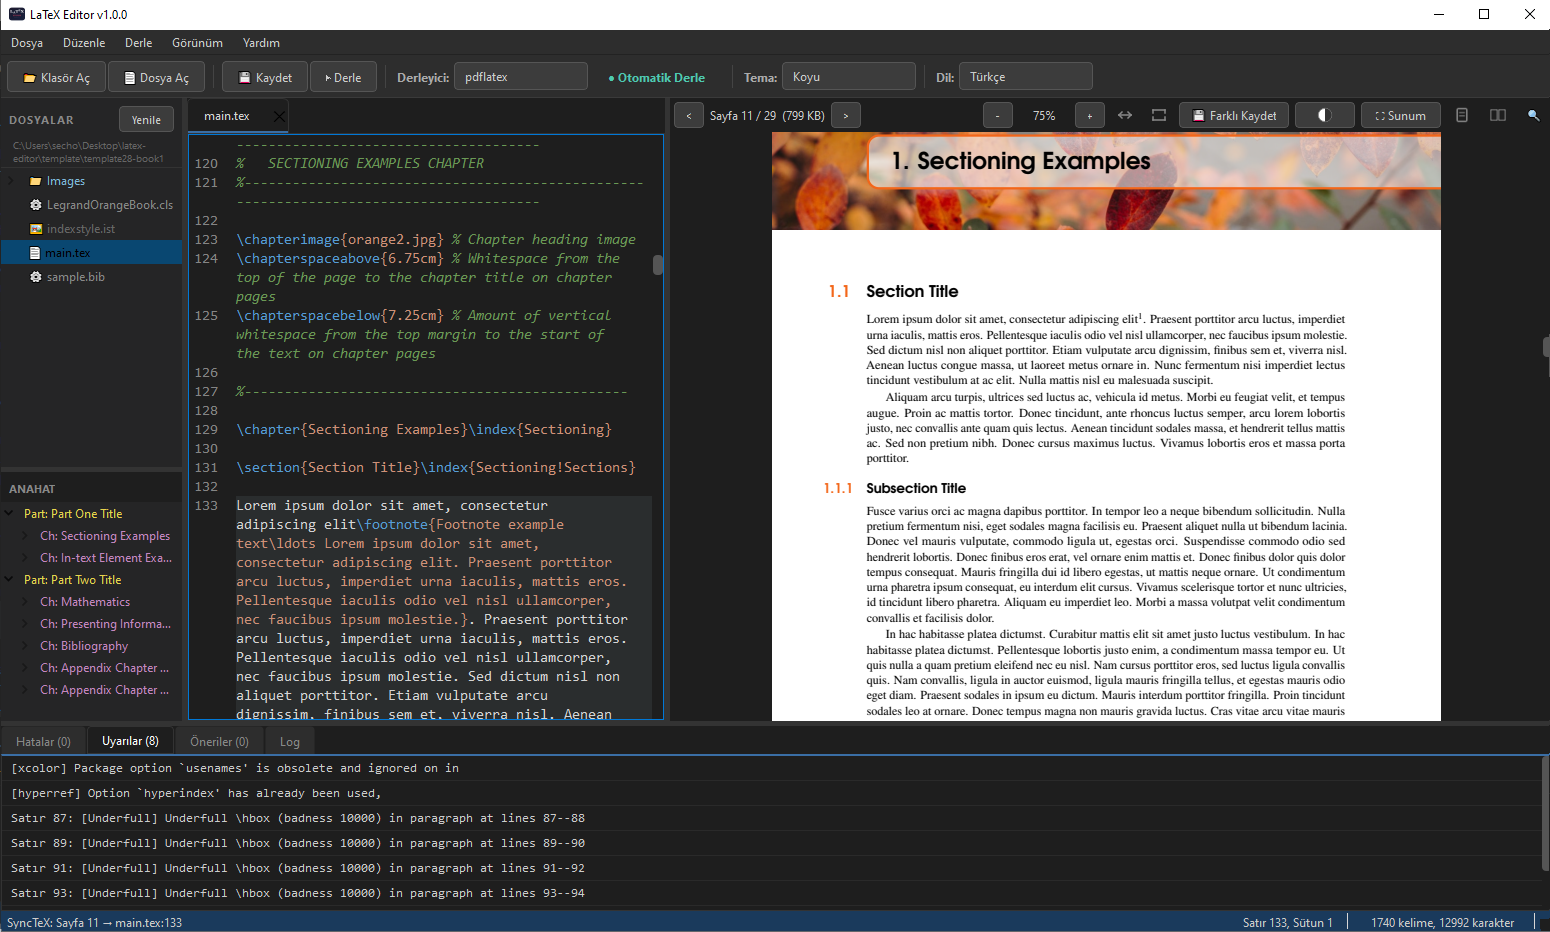
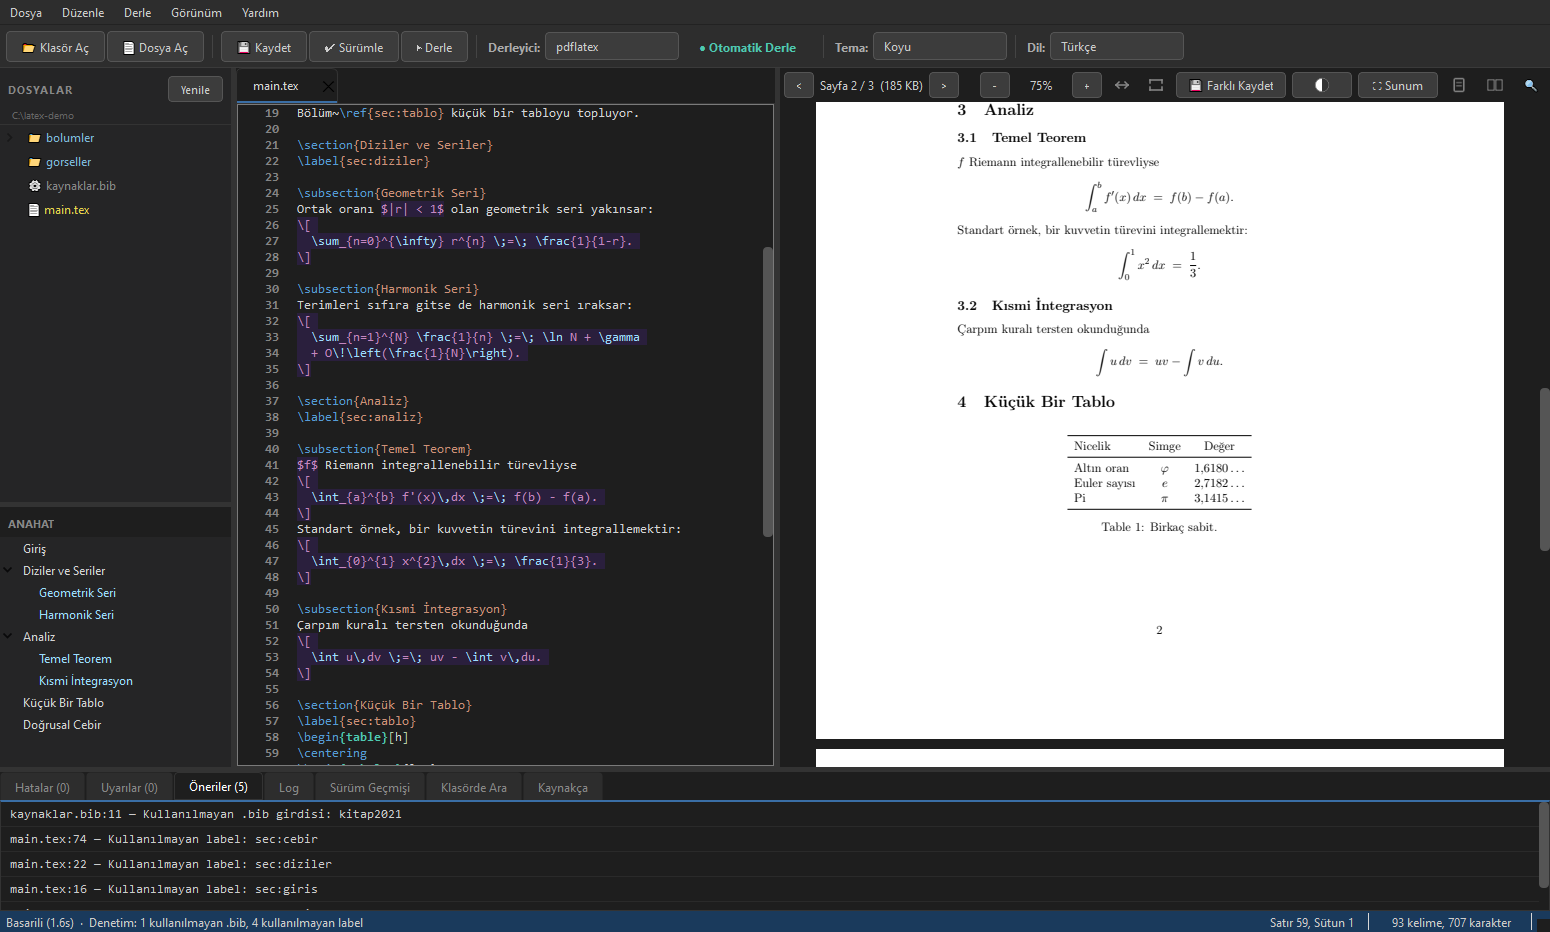
docs: tanitim goruntuleri yenilendi, uc yeni hareketli gosterim
Eski iki goruntude kisisel bilgi vardi: dosya agacinda
C:\Users\<kullanici>\... yolu okunuyordu ve GIF'te sekme basliklarinda
gercek belge adlari (cover-letter-ipm.tex, manuscript.tex) goruunuyordu.
Ikisi de notr bir demo projeden (C:\latex-demo, uydurma icerik) yeniden
alindi.

Uc yeni gosterim eklendi, hepsi ayni demo projeden:
  ss2-klasorde-ara.gif   Ctrl+Shift+F, uc dosyada 10 sonuc, birine tiklama
  ss3-kaynakca.gif       kaynakca tablosu, suzgec 6->2, DOI ile ekleme 6->7
  ss4-otomatik-derleme.gif  cumleyi yaz, kaydet, PDF kendiliginden yenilensin

Kayitlar uygulamanin KENDI yollarindan suruldu (gercek SyncTeX, gercek
derleme, gercek DOI istegi); fare imleci karelere cizildi cunku
QWidget.grab() onu yakalamiyor ve imlecsiz kayitta isler kendiliginden
oluyormus gibi duruyordu.

Boyut: kareler ayri ayri renk indirgemeye birakilinca dosya 5-6 kat
sisiyordu (olculdu: 1305 KB -> 118 KB). Ortak palet kullanildi, gozle fark
yok (%0.006 piksel). Bes goruntu toplam 1.2 MB; eskisi tek basina 1.3 MB'di.

Tanitim sayfasina var olan spotlight kalibiyla uc bolum eklendi, CSS'e
dokunulmadi. Iki dilli bloklarin dengeli oldugu ve gorsel adlarinin diskle
harfi harfine esllestigi dogrulandi.

Changed region(s): [[0.0, 0.0, 1.0, 1.0]]

diff --git a/docs/index.html b/docs/index.html
@@ -77,6 +77,63 @@
       </div>
     </section>
 
+    <!-- ===== KLASORDE ARA SPOTLIGHT ===== -->
+    <section class="section spotlight">
+      <div class="spotlight-text">
+        <h2 class="section-title"><span class="en">Search the whole folder</span><span class="tr">Klasörün tamamında ara</span></h2>
+        <p class="lead">
+          <span class="en">Ctrl+Shift+F searches inside every source file under the project folder, including the ones you never opened. Results list file and line; click one to jump straight there.</span>
+          <span class="tr">Ctrl+Shift+F proje klasöründeki tüm kaynak dosyaların içinde arar, hiç açmadıklarınız dahil. Sonuçlar dosya ve satır olarak listelenir, tıklayınca oraya gidilir.</span>
+        </p>
+        <ul class="check-list">
+          <li><span class="en">Covers .tex, .bib, .cls and .sty</span><span class="tr">.tex, .bib, .cls ve .sty dosyalarını kapsar</span></li>
+          <li><span class="en">Turkish dotted İ is folded correctly</span><span class="tr">Türkçe noktalı İ doğru eşleşir</span></li>
+          <li><span class="en">Runs in the background, so a large project never freezes the window</span><span class="tr">Arka planda koşar, büyük projede pencere donmaz</span></li>
+        </ul>
+      </div>
+      <div class="spotlight-media">
+        <img src="assets/ss2-klasorde-ara.gif" alt="Searching every file in the project folder and jumping to a result" loading="lazy" />
+      </div>
+    </section>
+
+    <!-- ===== KAYNAKCA SPOTLIGHT ===== -->
+    <section class="section spotlight">
+      <div class="spotlight-text">
+        <h2 class="section-title"><span class="en">Bibliography, in columns</span><span class="tr">Sütunlara ayrılmış kaynakça</span></h2>
+        <p class="lead">
+          <span class="en">Your .bib file is read into a sortable table: key, type, author, year, title. Filter as you type. Paste a DOI and the record is fetched, shown for review and appended to the file.</span>
+          <span class="tr">.bib dosyanız sıralanabilir bir tabloya dökülür: anahtar, tür, yazar, yıl, başlık. Yazdıkça süzülür. DOI yapıştırınca kayıt çekilir, onayınıza sunulur ve dosyaya eklenir.</span>
+        </p>
+        <ul class="check-list">
+          <li><span class="en">Manual \bibitem entries are listed too</span><span class="tr">Elle yazılmış \bibitem girdileri de listelenir</span></li>
+          <li><span class="en">Duplicate keys and missing required fields are reported</span><span class="tr">Mükerrer anahtar ve eksik zorunlu alan bildirilir</span></li>
+          <li><span class="en">The fetched entry is editable before it is written</span><span class="tr">Çekilen kayıt yazılmadan önce düzenlenebilir</span></li>
+        </ul>
+      </div>
+      <div class="spotlight-media">
+        <img src="assets/ss3-kaynakca.gif" alt="Bibliography tab with filtering, and adding a source by DOI" loading="lazy" />
+      </div>
+    </section>
+
+    <!-- ===== OTOMATIK DERLEME SPOTLIGHT ===== -->
+    <section class="section spotlight">
+      <div class="spotlight-text">
+        <h2 class="section-title"><span class="en">Save and the PDF follows</span><span class="tr">Kaydet, PDF arkandan gelsin</span></h2>
+        <p class="lead">
+          <span class="en">With auto compile on, saving rebuilds the document and refreshes the preview by itself. The PDF also scrolls to wherever your cursor was, so you land on the paragraph you were writing.</span>
+          <span class="tr">Otomatik derleme açıkken kaydetmek belgeyi yeniden derler ve önizlemeyi kendiliğinden tazeler. PDF ayrıca imlecinizin olduğu yere kayar, yazdığınız paragrafın üstüne düşersiniz.</span>
+        </p>
+        <ul class="check-list">
+          <li><span class="en">Errors and warnings land in the panel below, click to jump</span><span class="tr">Hata ve uyarılar alttaki panele düşer, tıklayınca gidilir</span></li>
+          <li><span class="en">A failed build never replaces the PDF you were reading</span><span class="tr">Başarısız derleme okuduğunuz PDF'i ezmez</span></li>
+          <li><span class="en">Esc stops a compile that is taking too long</span><span class="tr">Esc uzayan derlemeyi durdurur</span></li>
+        </ul>
+      </div>
+      <div class="spotlight-media">
+        <img src="assets/ss4-otomatik-derleme.gif" alt="Typing a sentence, saving, and the PDF preview refreshing on its own" loading="lazy" />
+      </div>
+    </section>
+
     <!-- ===== DIFFERENTIATORS ===== -->
     <section class="section">
       <h2 class="section-title"><span class="en">Why this editor</span><span class="tr">Neden bu editör</span></h2>
